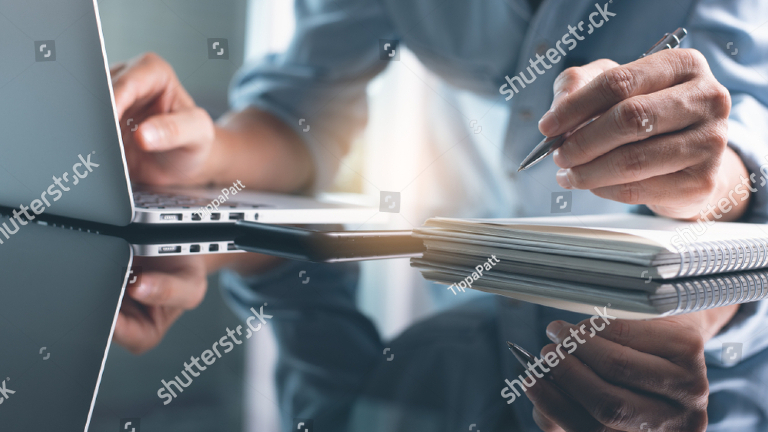
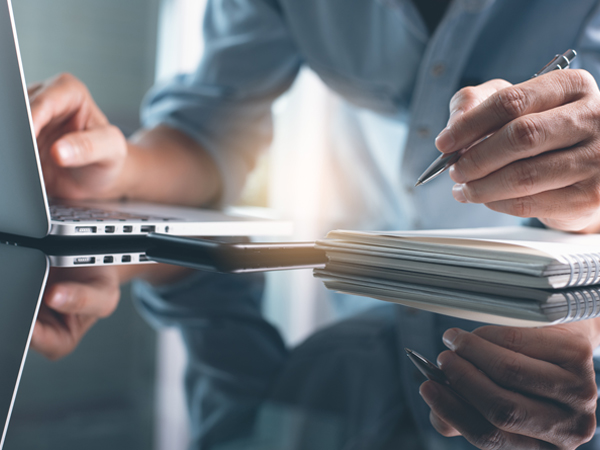
Ajustes de imagenes

diff --git a/src/components/index/Hero.scss b/src/components/index/Hero.scss
@@ -8,7 +8,6 @@
       height: 28em;
       @include grid-structure($columns: 8);
       align-content: flex-end;
-      background-size: cover;
     }
 
     &__tv {
@@ -21,7 +20,6 @@
       box-sizing: border-box;
       border-radius: 1em 0 0 0;
       
-
       &__box {
         @include hero-box($bg: $azul, $gridarea: 'box-tv');
         margin-bottom: 2em;
@@ -46,13 +44,14 @@
           $color: '#fff',
           $lineheight: unset
         );
+        line-height:1.3rem
       }
     }
 
     &__internet {
       grid-area: internet;
       grid-template-areas: '. box-internet box-internet box-internet box-internet box-internet box-internet .';
-      @include section-background($image: 'latinamericancable-internet-mob-por.jpg');
+      @include section-background($image: 'latinamericancable-internet.jpg');
       border: 3px;
       border-style: none none none solid;
       border-color: white;
@@ -83,6 +82,7 @@
           $color: $gris,
           $lineheight: unset
         );
+        line-height:1.3rem
       }
     }
   }
@@ -109,7 +109,8 @@
         border-radius: 1em 1em 0 0;
         grid-template-areas: '. box-tv box-tv box-tv box-tv box-tv box-tv .';
         border-style: none;
-		  @include section-background($image: 'latinamericancable-tv-mob-por.jpg');
+        background-image: url('../../assets/images/latinamericancable-tv-mob-por.jpg');
+
         &__icon {
           width: 4.5em;
           height: 4.5em;
@@ -124,6 +125,8 @@
         border-radius: 0 0 0 0;
         grid-template-areas: '. box-internet box-internet box-internet box-internet box-internet box-internet .';
         border-style: none;
+        background-image: url('../../assets/images/latinamericancable-internet-mob-por.jpg');
+
         &__icon {
           width: 4.5em;
           height: 4.5em;
@@ -163,6 +166,7 @@
       &__internet {
         border-radius: 0 1em 0 0;
         border-style: none none none solid;
+
         &__text {
           font-size: 0.8rem;
           line-height: 1rem;
@@ -181,6 +185,14 @@
           padding: 1em 0;
         }
       }
+
+      &__tv {
+        background-image: url('../../assets/images/latinamericancable-tv-tab-por.jpg');
+      }
+
+      &__internet {
+        background-image: url('../../assets/images/latinamericancable-internet-tab-por.jpg');
+      }
     }
   }
 }
@@ -196,6 +208,8 @@
       }
 
       &__tv {
+        background-image: url('../../assets/images/latinamericancable-tv.jpg');
+
         &__icon {
           width: 6em;
           height: 6em;
@@ -208,6 +222,8 @@
       }
 
       &__internet {
+        background-image: url('../../assets/images/latinamericancable-internet.jpg');
+
         &__icon {
           width: 6em;
           height: 6em;

diff --git a/src/components/index/Pago.scss b/src/components/index/Pago.scss
@@ -51,6 +51,10 @@
 			grid-template-columns: repeat(6, 2fr);
 			grid-template-areas: '. icon icon icon icon .' '. boton boton boton boton .';
 
+			&::before {
+				background-image: url('../../assets/images/latinamericancable-pago-mob-por.jpg');
+			}
+
 			&__boton {
 				font-size: 1rem;
 			}
@@ -60,6 +64,13 @@
 
 /*----------------------------------- Mobile Landscape (568px) ----------------------------------*/
 @include responsive(35.5em) {
+	.inicio {
+		.pago {
+			&::before {
+				background-image: url('../../assets/images/latinamericancable-pago-mob-lan.jpg');
+			}
+		}
+	}
 }
 
 /*----------------------------------- Tablet Portrait (768px) -----------------------------------*/
@@ -68,6 +79,10 @@
 		.pago {
 			grid-template-columns: repeat(12, 2fr);
 			grid-template-areas: '. . . . icon icon icon icon . . . .' '. . . . boton boton boton boton . . . .';
+
+			&::before {
+				background-image: url('../../assets/images/latinamericancable-pago-tab-por.jpg');
+			}
 
 			&__boton {
 				font-size: 1.2rem;
@@ -78,6 +93,13 @@
 
 /*----------------------------------- Tablet Landscape (1024px) ---------------------------------*/
 @include responsive(64em) {
+	.inicio {
+		.pago {
+			&::before {
+				background-image: url('../../assets/images/latinamericancable-pago.jpg');
+			}
+		}
+	}
 }
 
 /*------------------------------------- Small Desktop (1280px) ----------------------------------*/

diff --git a/src/components/index/PlanTv.scss b/src/components/index/PlanTv.scss
@@ -46,6 +46,7 @@
 			&__banner {
 				padding: 2em;
 				grid-column: 1/9;
+				background-image: url('../../assets/images/latinamericancable-tv-plan-mob-por.jpg');
 
 				&__titulo {
 					line-height: 1.8rem;
@@ -61,6 +62,13 @@
 
 /*----------------------------------- Mobile Landscape (568px) ----------------------------------*/
 @include responsive(35.5em) {
+	.inicio {
+		.tv {
+			&__banner {
+				background-image: url('../../assets/images/latinamericancable-tv-plan-mob-lan.jpg');
+			}
+		}
+	}
 
 	/*----------------------------------- Tablet Portrait (768px) -----------------------------------*/
 	@include responsive(48em) {
@@ -72,6 +80,7 @@
 
 				&__banner {
 					grid-column: 2/9;
+					background-image: url('../../assets/images/latinamericancable-tv-plan-tab-por.jpg');
 					&__boton {
 						font-size: 1.2rem;
 						padding: 0.75em 2em;
@@ -87,6 +96,7 @@
 				grid-column: 7 / 13;
 				grid-template-columns: repeat(8, 2fr);
 				&__banner {
+					background-image: url('../../assets/images/latinamericancable-tv-plan.jpg');
 					&__boton {
 						padding: 0.75em 3em;
 					}
